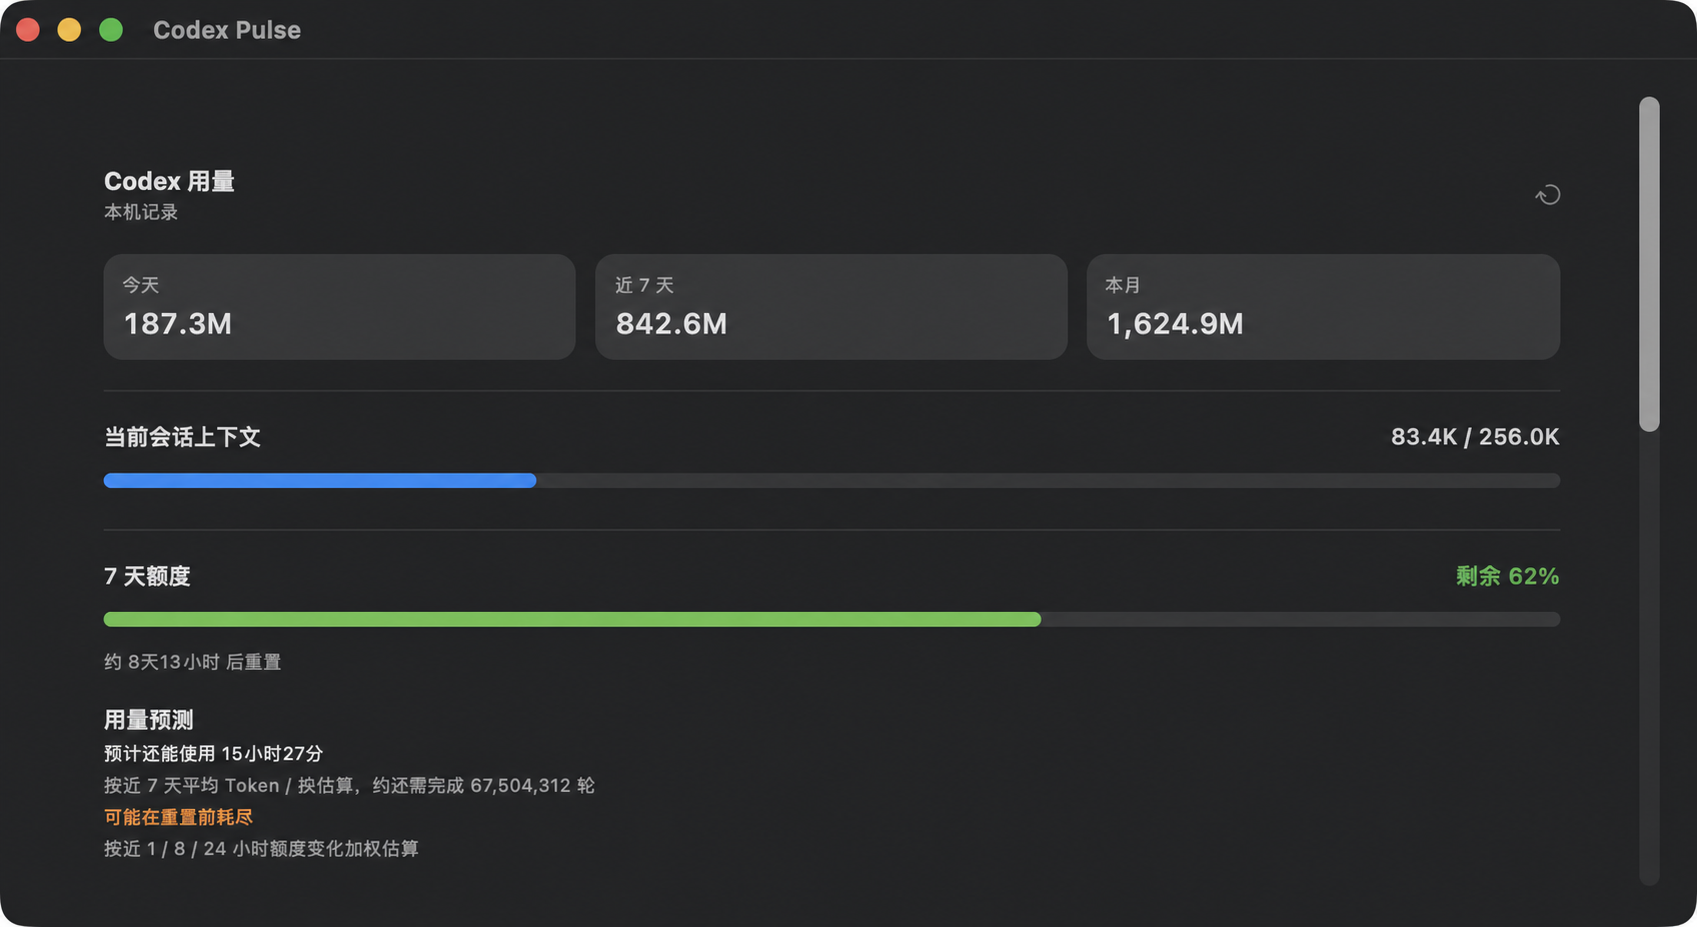
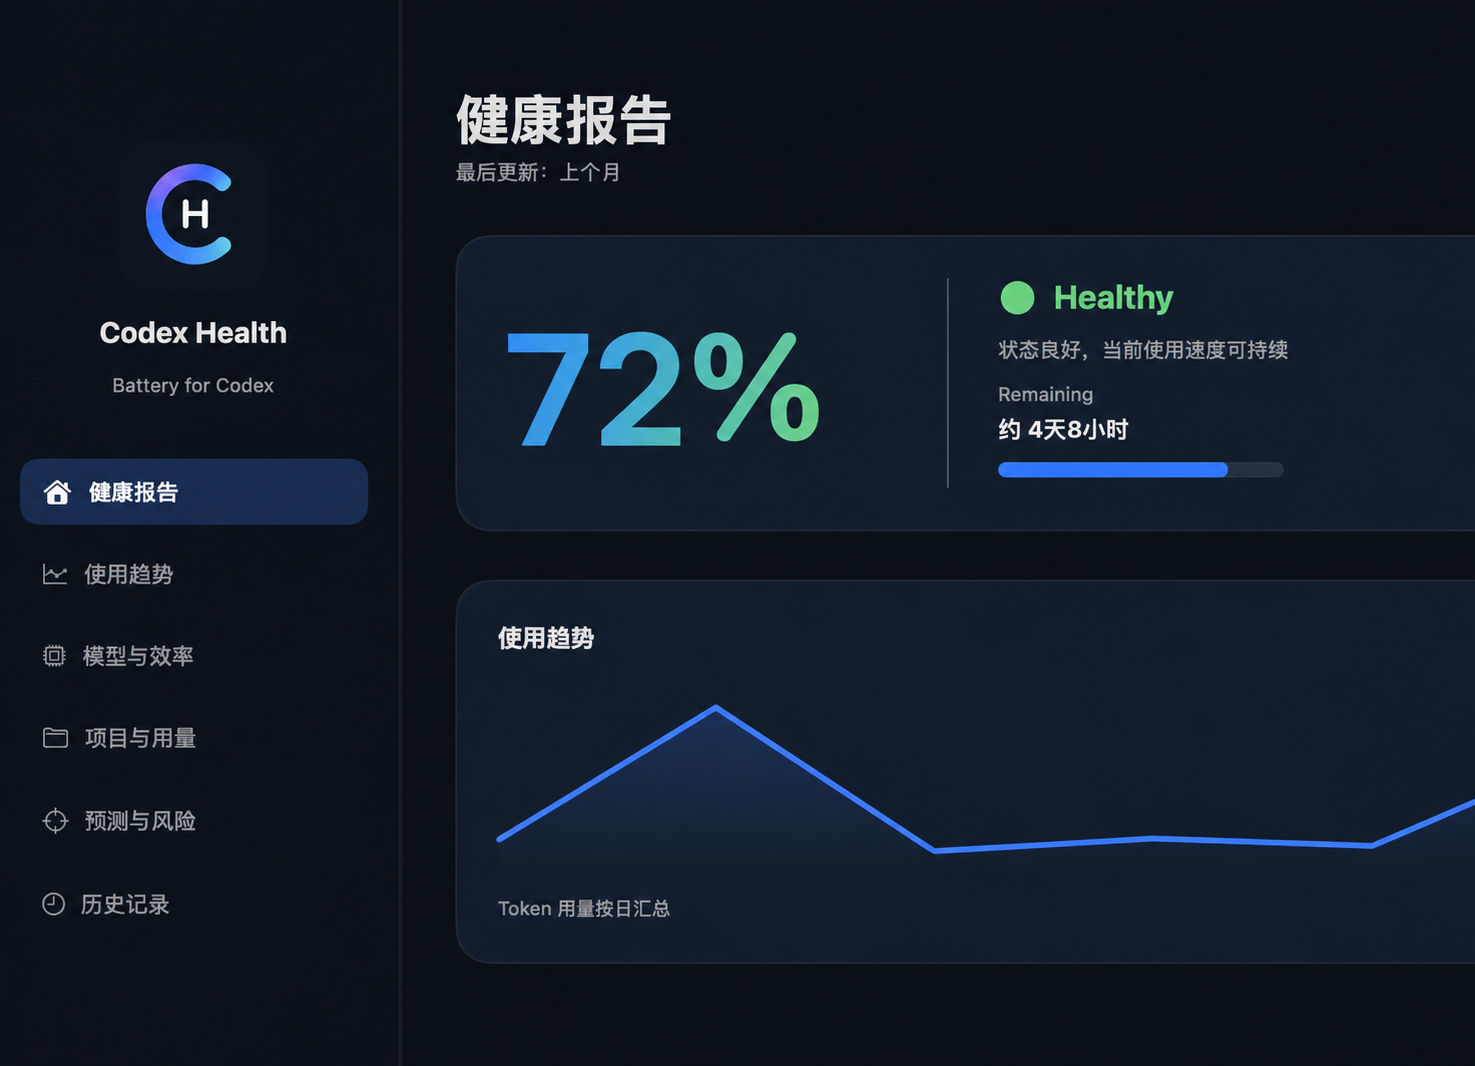
Refresh README screenshots for Codex Health

diff --git a/README.md b/README.md
@@ -12,19 +12,15 @@
 
 以下截图均为脱敏的演示数据，不包含真实项目、会话或 Token 用量。
 
-![Codex Health 概览](docs/screenshots/dashboard.png)
+![Codex Health 当前界面（匿名演示数据）](docs/screenshots/dashboard.png)
 
 ## 菜单栏摘要
 
 菜单栏会显示当前 7 天额度剩余比例；点击后可快速查看额度、预测、提醒阈值并打开完整详情。
 
-![Codex Health 菜单栏下拉面板](docs/screenshots/menu-popover.png)
-
 ## 桌面小组件
 
 在 macOS 桌面编辑模式中添加“Codex Health”小组件。小号展示额度概览，中号同时展示三段 Token 用量、7 天额度与当前上下文。
-
-![Codex Health 桌面小组件](docs/screenshots/desktop-widget.png)
 
 ## 功能
 
@@ -37,8 +33,6 @@
 - 按日 / 按小时趋势，可按模型或项目筛选
 - 低额度、预计提前耗尽、即将重置提醒；阈值和同日去重均可配置
 - WidgetKit 桌面小组件：小号展示额度概览，中号展示三段用量、额度与上下文
-
-![Codex Health 分析详情](docs/screenshots/analytics.png)
 
 ## 使用
 
